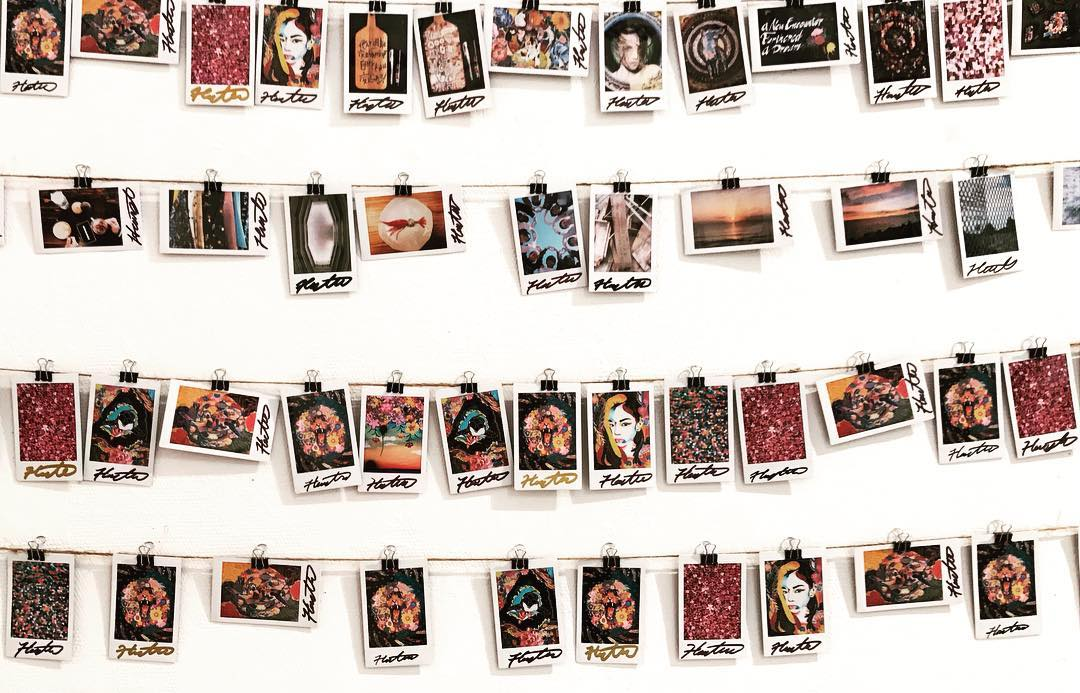
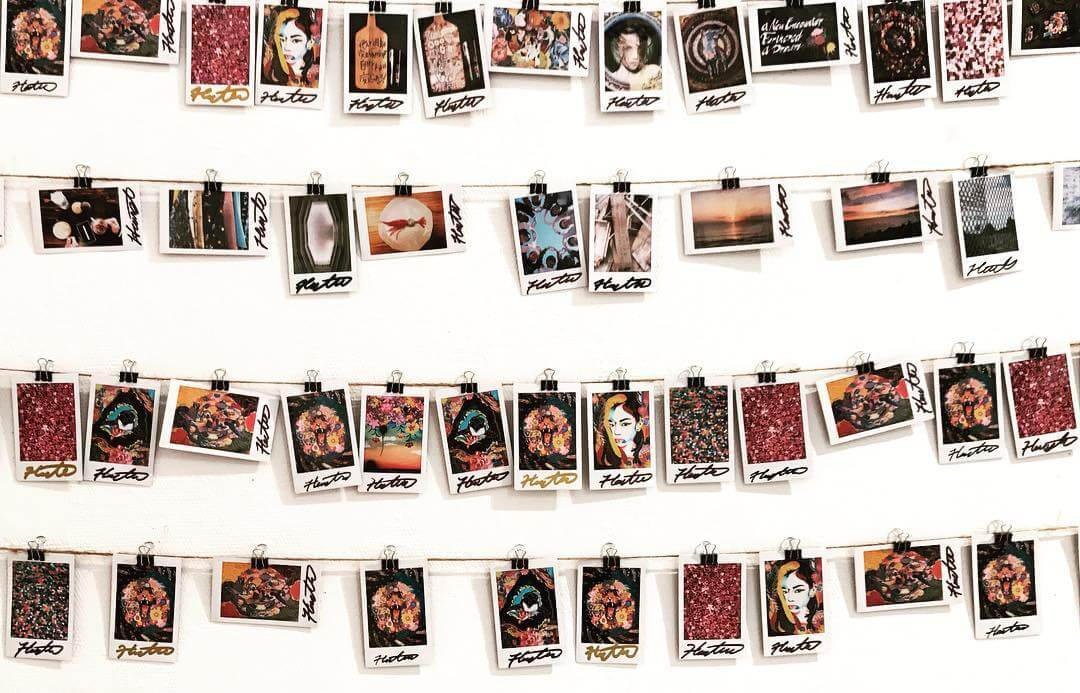
compress image

diff --git a/src/components/horizontal-map/ExtendCard.jsx b/src/components/horizontal-map/ExtendCard.jsx
@@ -1,7 +1,7 @@
 import React, { Component } from 'react'
 import styled from 'styled-components'
 import _ from 'lodash'
-
+const h = document.body.clientHeight
 const ExtendCardWrapper = styled.div`
   &.swiper-slide {
     transform: scale(${props => props.toggle ? 1 : (props.active ? 0.8 : 0.7)});
@@ -44,12 +44,16 @@ const Content = styled.div`
     font-size: 2rem;
     font-family: "Raleway";
     margin: 10px 0;
-    text-align: ${props => props.toggle ? `left` : `center`};
+    text-align: center;
     transition: all 0.25s ease;
   }
 
-  p {
+  div.paragraph {
+    flex: 1;
     display: ${props => props.toggle ? `block` : `none`};
+    opacity: ${props => props.params < 0.25 ? 0 : props.params / h};
+  }
+  p {
     color: #50514F;
     text-align: left;
   }
@@ -57,7 +61,7 @@ const Content = styled.div`
 const ImgList = styled.div`
   display: flex;
   margin: ${props => props.toggle ? `20px 0` : `0`};
-  justify-content: ${props => props.toggle ? `flex-start` : `center`};
+  justify-content: center;
   transition: all 0.25s ease;
   width: 100%;
   height: auto;
@@ -66,8 +70,8 @@ const ImgList = styled.div`
     margin: 5px;
     border-radius: 5px;
     overflow: hidden;
-    width: ${props => props.toggle ? `100px` : `64px`};
-    height: ${props => props.toggle ? `100px` : `64px`};
+    width: calc(${props => props.toggle ? `${(props.params * 36 / h) + 64}px` : `64px`});
+    height: calc(${props => props.toggle ? `${(props.params * 36 / h) + 64}px` : `64px`});
     transition: all 0.25s ease;
     background-repeat: no-repeat;
     background-position: center;
@@ -100,16 +104,16 @@ export default class ExtendCard extends Component {
         <ExtendCardContent
           padding={this.props.isBoxExtends}
           className={`box`}>
-          <Content toggle={this.props.isBoxExtends}>
+          <Content toggle={this.props.isBoxExtends} params={this.props.params}>
             <h2 className="swiperTitle">{this.props.cardContent.name}</h2>
-            <ImgList toggle={this.props.isBoxExtends}>
+            <ImgList toggle={this.props.isBoxExtends} params={this.props.params}>
               {
                 _.map(this.props.cardContent.imgList, (figure, id) =>
                   <div key={id} style={{backgroundImage: `url(${figure})`}} />
                 )
               }
             </ImgList>
-            <div style={{flex: 1}}>
+            <div className={`paragraph`}>
               <p>{this.props.cardContent.content}</p>
             </div>
           </Content>

diff --git a/src/layouts/horizontal-map/index.jsx b/src/layouts/horizontal-map/index.jsx
@@ -49,19 +49,17 @@ const ContentWrapper = styled.div`
   overflow-y: auto;
   overflow-x: hidden;
   padding: 0;
-  // padding: calc(var(--app-height) - var(--app-width)) 0;
 
   .swiperWrapper {
     /* border: 1px solid #50514F; */
     width: 100%;
-    height: 100%; // var(--app-height);
+    height: 100%;
     display: flex;
     flex-direction: column;
     justify-content: flex-end;
     align-items: center;
 
     padding: 0;
-    color: unquote('rgba(0, 0, 0, var(--scroll, 0))');
     text-shadow: 0 0 white;
     font-size: 2rem;
   }
@@ -74,7 +72,7 @@ const SwiperComponent = styled.div`
 
   .swiper-container {
     width: 100%;
-    height: calc(${props => props.x < 220 ? 220 : props.x}px);
+    height: calc(${props => props.height < 220 ? 220 : props.height}px);
   }
 `
 const elList = [
@@ -175,13 +173,14 @@ export default class HMap extends Component {
             <ContentWrapper className="hero-body">
               <div className="swiperWrapper container">
 
-              <Motion style={{x: spring(this.state.isBoxExtends ? document.body.clientHeight : 0, {stiffness: 100, damping: 17})}}>
-                {({x}) =>
-                  <SwiperComponent x={x} style={{height: `${x}px`}}>
+              <Motion style={{h: spring(this.state.isBoxExtends ? document.body.clientHeight : 0, {stiffness: 100, damping: 17})}}>
+                {({h}) =>
+                  <SwiperComponent height={h} style={{height: `${h}px`}}>
                     <Swiper {...params} ref={this.swiperRef}>
                       {
                         _.map(elList, (el, id) =>
                           <ExtendCard
+                            params={h}
                             cardContent={el}
                             isActive={id === this.state.activeSlideIndex}
                             isBoxExtends={this.state.isBoxExtends}
